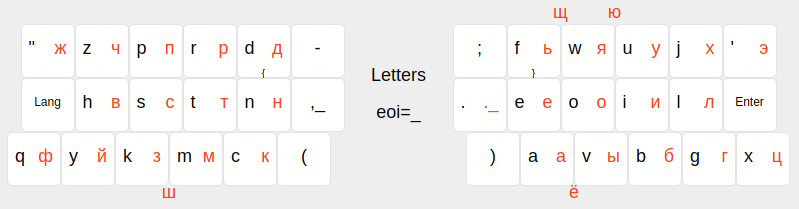
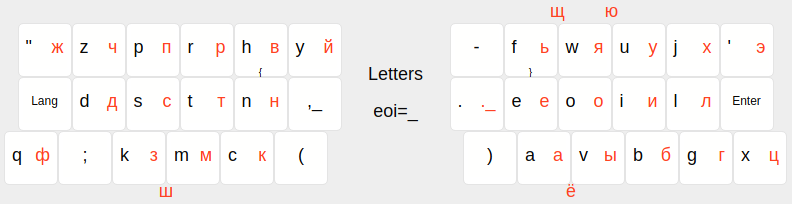
Improve hdy;двй; placement

diff --git a/keymaps/default/chords.h b/keymaps/default/chords.h
@@ -1,83 +1,83 @@
 #ifndef KLAVAROG_CHORDGEN
 #define KLAVAROG_CHORDGEN
 enum combo_events {
-  combo_event_3635722050819258543, //tap_code16(RU_SHCH);
-  combo_event_1869332572469108580, //tap_code16(RU_JU);
-  combo_event_4060120399592134633, //tap_code16(KC_GRAVE);
-  combo_event_2631682705235724930, //tap_code16(RU_SH);
-  combo_event_2597827877647466371, //tap_code16(KC_UNDS);
-  combo_event_5179501549317328715, //tap_code16(KC_UNDS);
-  combo_event_1677738204539990625, //tap_code16(KC_LCBR);
-  combo_event_6411135477331246535, //tap_code16(KC_RCBR);
+  combo_event_3296280244104932357, //tap_code16(RU_SHCH);
+  combo_event_2906466214886324572, //tap_code16(RU_JU);
+  combo_event_4250217083255976522, //tap_code16(KC_GRAVE);
+  combo_event_6842580542927239802, //tap_code16(RU_SH);
+  combo_event_4949924079818340136, //tap_code16(KC_UNDS);
+  combo_event_3023742482167573862, //tap_code16(KC_UNDS);
+  combo_event_1161442351491608332, //tap_code16(KC_LCBR);
+  combo_event_4802480844219420277, //tap_code16(KC_RCBR);
   
 };
-const uint16_t PROGMEM combo_array_3635722050819258543[] = {
+const uint16_t PROGMEM combo_array_3296280244104932357[] = {
   RU_SOFT, RU_JA, COMBO_END
 };
-const uint16_t PROGMEM combo_array_1869332572469108580[] = {
+const uint16_t PROGMEM combo_array_2906466214886324572[] = {
   RU_JA, RU_U, COMBO_END
 };
-const uint16_t PROGMEM combo_array_4060120399592134633[] = {
+const uint16_t PROGMEM combo_array_4250217083255976522[] = {
   RU_A, RU_Y, COMBO_END
 };
-const uint16_t PROGMEM combo_array_2631682705235724930[] = {
+const uint16_t PROGMEM combo_array_6842580542927239802[] = {
   RU_Z, RU_M, COMBO_END
 };
-const uint16_t PROGMEM combo_array_2597827877647466371[] = {
+const uint16_t PROGMEM combo_array_4949924079818340136[] = {
   RU_JE, RU_O, RU_I, COMBO_END
 };
-const uint16_t PROGMEM combo_array_5179501549317328715[] = {
+const uint16_t PROGMEM combo_array_3023742482167573862[] = {
   KC_E, KC_O, KC_I, COMBO_END
 };
-const uint16_t PROGMEM combo_array_1677738204539990625[] = {
-  KC_D, KC_N, COMBO_END
+const uint16_t PROGMEM combo_array_1161442351491608332[] = {
+  KC_H, KC_N, COMBO_END
 };
-const uint16_t PROGMEM combo_array_6411135477331246535[] = {
+const uint16_t PROGMEM combo_array_4802480844219420277[] = {
   KC_F, KC_E, COMBO_END
 };
 combo_t key_combos[COMBO_COUNT] = {
-  [combo_event_3635722050819258543] = COMBO_ACTION(combo_array_3635722050819258543),
-  [combo_event_1869332572469108580] = COMBO_ACTION(combo_array_1869332572469108580),
-  [combo_event_4060120399592134633] = COMBO_ACTION(combo_array_4060120399592134633),
-  [combo_event_2631682705235724930] = COMBO_ACTION(combo_array_2631682705235724930),
-  [combo_event_2597827877647466371] = COMBO_ACTION(combo_array_2597827877647466371),
-  [combo_event_5179501549317328715] = COMBO_ACTION(combo_array_5179501549317328715),
-  [combo_event_1677738204539990625] = COMBO_ACTION(combo_array_1677738204539990625),
-  [combo_event_6411135477331246535] = COMBO_ACTION(combo_array_6411135477331246535),
+  [combo_event_3296280244104932357] = COMBO_ACTION(combo_array_3296280244104932357),
+  [combo_event_2906466214886324572] = COMBO_ACTION(combo_array_2906466214886324572),
+  [combo_event_4250217083255976522] = COMBO_ACTION(combo_array_4250217083255976522),
+  [combo_event_6842580542927239802] = COMBO_ACTION(combo_array_6842580542927239802),
+  [combo_event_4949924079818340136] = COMBO_ACTION(combo_array_4949924079818340136),
+  [combo_event_3023742482167573862] = COMBO_ACTION(combo_array_3023742482167573862),
+  [combo_event_1161442351491608332] = COMBO_ACTION(combo_array_1161442351491608332),
+  [combo_event_4802480844219420277] = COMBO_ACTION(combo_array_4802480844219420277),
   
 };
 void process_combo_event(uint8_t combo_index, bool pressed) {
   if (layer_state & (1 << CYRILLIC)) {
     switch (combo_index) {
-      case combo_event_3635722050819258543: {
+      case combo_event_3296280244104932357: {
         if (pressed) {
   tap_code16(RU_SHCH);
 
 }
 return;
 }
-    case combo_event_1869332572469108580: {
+    case combo_event_2906466214886324572: {
         if (pressed) {
   tap_code16(RU_JU);
 
 }
 return;
 }
-    case combo_event_4060120399592134633: {
+    case combo_event_4250217083255976522: {
         if (pressed) {
   tap_code16(KC_GRAVE);
 
 }
 return;
 }
-    case combo_event_2631682705235724930: {
+    case combo_event_6842580542927239802: {
         if (pressed) {
   tap_code16(RU_SH);
 
 }
 return;
 }
-    case combo_event_2597827877647466371: {
+    case combo_event_4949924079818340136: {
         if (pressed) {
   tap_code16(KC_UNDS);
 
@@ -90,21 +90,21 @@ return;
 }
  else if (1) {
     switch (combo_index) {
-      case combo_event_5179501549317328715: {
+      case combo_event_3023742482167573862: {
         if (pressed) {
   tap_code16(KC_UNDS);
 
 }
 return;
 }
-    case combo_event_1677738204539990625: {
+    case combo_event_1161442351491608332: {
         if (pressed) {
   tap_code16(KC_LCBR);
 
 }
 return;
 }
-    case combo_event_6411135477331246535: {
+    case combo_event_4802480844219420277: {
         if (pressed) {
   tap_code16(KC_RCBR);
 

diff --git a/keymaps/default/keymap.c b/keymaps/default/keymap.c
@@ -3,17 +3,17 @@
 #include "chords.h"
 const uint16_t PROGMEM keymaps[][MATRIX_ROWS][MATRIX_COLS] = {
 [LATIN] = FINGERS(
-    KC_DQUO, KC_Z, KC_P, KC_R, KC_D, KC_MINS,
-    KK_LANG, KC_H, KC_S, KC_T, KC_N, KK_CMSP,
-    KC_Q,    KC_Y, KC_K, KC_M, KC_C, KC_LPRN,
-    KC_SCLN, KC_F, KC_W, KC_U, KC_J, KC_QUOT,
+    KC_DQUO, KC_Z, KC_P, KC_R, KC_H, KC_Y,
+    KK_LANG, KC_D, KC_S, KC_T, KC_N, KK_CMSP,
+    KC_Q,    KC_SCLN, KC_K, KC_M, KC_C, KC_LPRN,
+    KC_MINS, KC_F, KC_W, KC_U, KC_J, KC_QUOT,
     KC_DOT,  KC_E, KC_O, KC_I, KC_L, KC_ENT,
     KC_RPRN, KC_A, KC_V, KC_B, KC_G, KC_X),
 [CYRILLIC] = FINGERS(
-    RU_ZH,   RU_CH,   RU_P,  RU_R,  RU_D, KC_MINS,
-    KK_LANG, RU_V,    RU_S,  RU_T,  RU_N, KK_CMSP,
-    RU_F,    RU_J,    RU_Z,  RU_M,  RU_K, KC_LPRN,
-    RU_SCLN, RU_SOFT, RU_JA, RU_U,  RU_H, RU_E,
+    RU_ZH,   RU_CH,   RU_P,  RU_R,  RU_V, RU_J,
+    KK_LANG, RU_D,    RU_S,  RU_T,  RU_N, KK_CMSP,
+    RU_F,    RU_SCLN, RU_Z,  RU_M,  RU_K, KC_LPRN,
+    KC_MINS, RU_SOFT, RU_JA, RU_U,  RU_H, RU_E,
     KK_DTSP, RU_JE,   RU_O,  RU_I,  RU_L, KC_ENT,
     KC_RPRN, RU_A,    RU_Y,  RU_B,  RU_G, RU_TS),
 [MARS] = FINGERS(
@@ -149,6 +149,7 @@ bool process_record_user(uint16_t keycode, keyrecord_t *record) {
       tap_code16(RU_DOT);
       tap_code16(KC_SPC);
     }
+    return false;
 
     case KK_MDSH:
     if (record->event.pressed) {
@@ -156,6 +157,7 @@ bool process_record_user(uint16_t keycode, keyrecord_t *record) {
       tap_code16(KC_MINS);
       tap_code16(KC_MINS);
     }
+    return false;
 
     case KK_3DOT:
     if (record->event.pressed) {
@@ -163,6 +165,7 @@ bool process_record_user(uint16_t keycode, keyrecord_t *record) {
       tap_code16((layer_state & _BV(CYRILLIC)) ? RU_COMM : KC_COMM);
       tap_code16((layer_state & _BV(CYRILLIC)) ? RU_COMM : KC_COMM);
     }
+    return false;
 
     case KK_ELLI:
     if (record->event.pressed) {
@@ -171,6 +174,7 @@ bool process_record_user(uint16_t keycode, keyrecord_t *record) {
       tap_code16((layer_state & _BV(CYRILLIC)) ? RU_COMM : KC_COMM);
       tap_code16((layer_state & _BV(CYRILLIC)) ? RU_COMM : KC_COMM);
     }
+    return false;
   }
   return true;
 }

diff --git a/src/Keymap.md b/src/Keymap.md
@@ -8,6 +8,10 @@
 
 ## The layers
 
+Base layer:
+
+![Base layer](pic/layer_base.png)
+
 ```c
 const uint16_t PROGMEM keymaps[][MATRIX_ROWS][MATRIX_COLS] = {
 ```
@@ -18,17 +22,17 @@ The Cyrillic chords are not declared in this file, see `chords.ini`.
 
 ```c
 [LATIN] = FINGERS(
-    KC_DQUO, KC_Z, KC_P, KC_R, KC_D, KC_MINS,
-    KK_LANG, KC_H, KC_S, KC_T, KC_N, KK_CMSP,
-    KC_Q,    KC_Y, KC_K, KC_M, KC_C, KC_LPRN,
-    KC_SCLN, KC_F, KC_W, KC_U, KC_J, KC_QUOT,
+    KC_DQUO, KC_Z, KC_P, KC_R, KC_H, KC_Y,
+    KK_LANG, KC_D, KC_S, KC_T, KC_N, KK_CMSP,
+    KC_Q,    KC_SCLN, KC_K, KC_M, KC_C, KC_LPRN,
+    KC_MINS, KC_F, KC_W, KC_U, KC_J, KC_QUOT,
     KC_DOT,  KC_E, KC_O, KC_I, KC_L, KC_ENT,
     KC_RPRN, KC_A, KC_V, KC_B, KC_G, KC_X),
 [CYRILLIC] = FINGERS(
-    RU_ZH,   RU_CH,   RU_P,  RU_R,  RU_D, KC_MINS,
-    KK_LANG, RU_V,    RU_S,  RU_T,  RU_N, KK_CMSP,
-    RU_F,    RU_J,    RU_Z,  RU_M,  RU_K, KC_LPRN,
-    RU_SCLN, RU_SOFT, RU_JA, RU_U,  RU_H, RU_E,
+    RU_ZH,   RU_CH,   RU_P,  RU_R,  RU_V, RU_J,
+    KK_LANG, RU_D,    RU_S,  RU_T,  RU_N, KK_CMSP,
+    RU_F,    RU_SCLN, RU_Z,  RU_M,  RU_K, KC_LPRN,
+    KC_MINS, RU_SOFT, RU_JA, RU_U,  RU_H, RU_E,
     KK_DTSP, RU_JE,   RU_O,  RU_I,  RU_L, KC_ENT,
     KC_RPRN, RU_A,    RU_Y,  RU_B,  RU_G, RU_TS),
 ```
